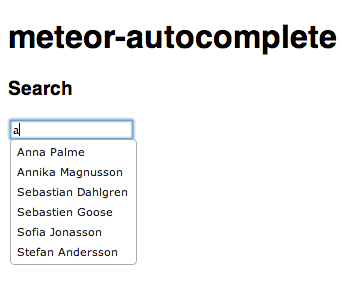
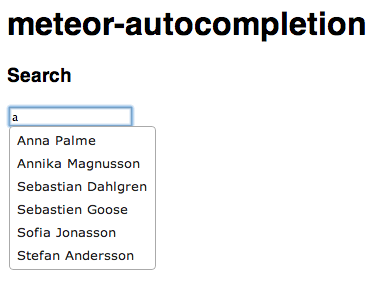
s/autocomplete/autocompletion/g

Changed region(s): [[0.0, 0.227, 0.4386, 0.9645], [0.0, 0.0284, 0.9942, 0.1986]]

diff --git a/example/client/client.html b/example/client/client.html
@@ -3,7 +3,7 @@
 </head>
 
 <body>
-  <h1>meteor-autocomplete test app</h1>
+  <h1>meteor-autocompletion test app</h1>
   {{>search}}
 </body>
 
